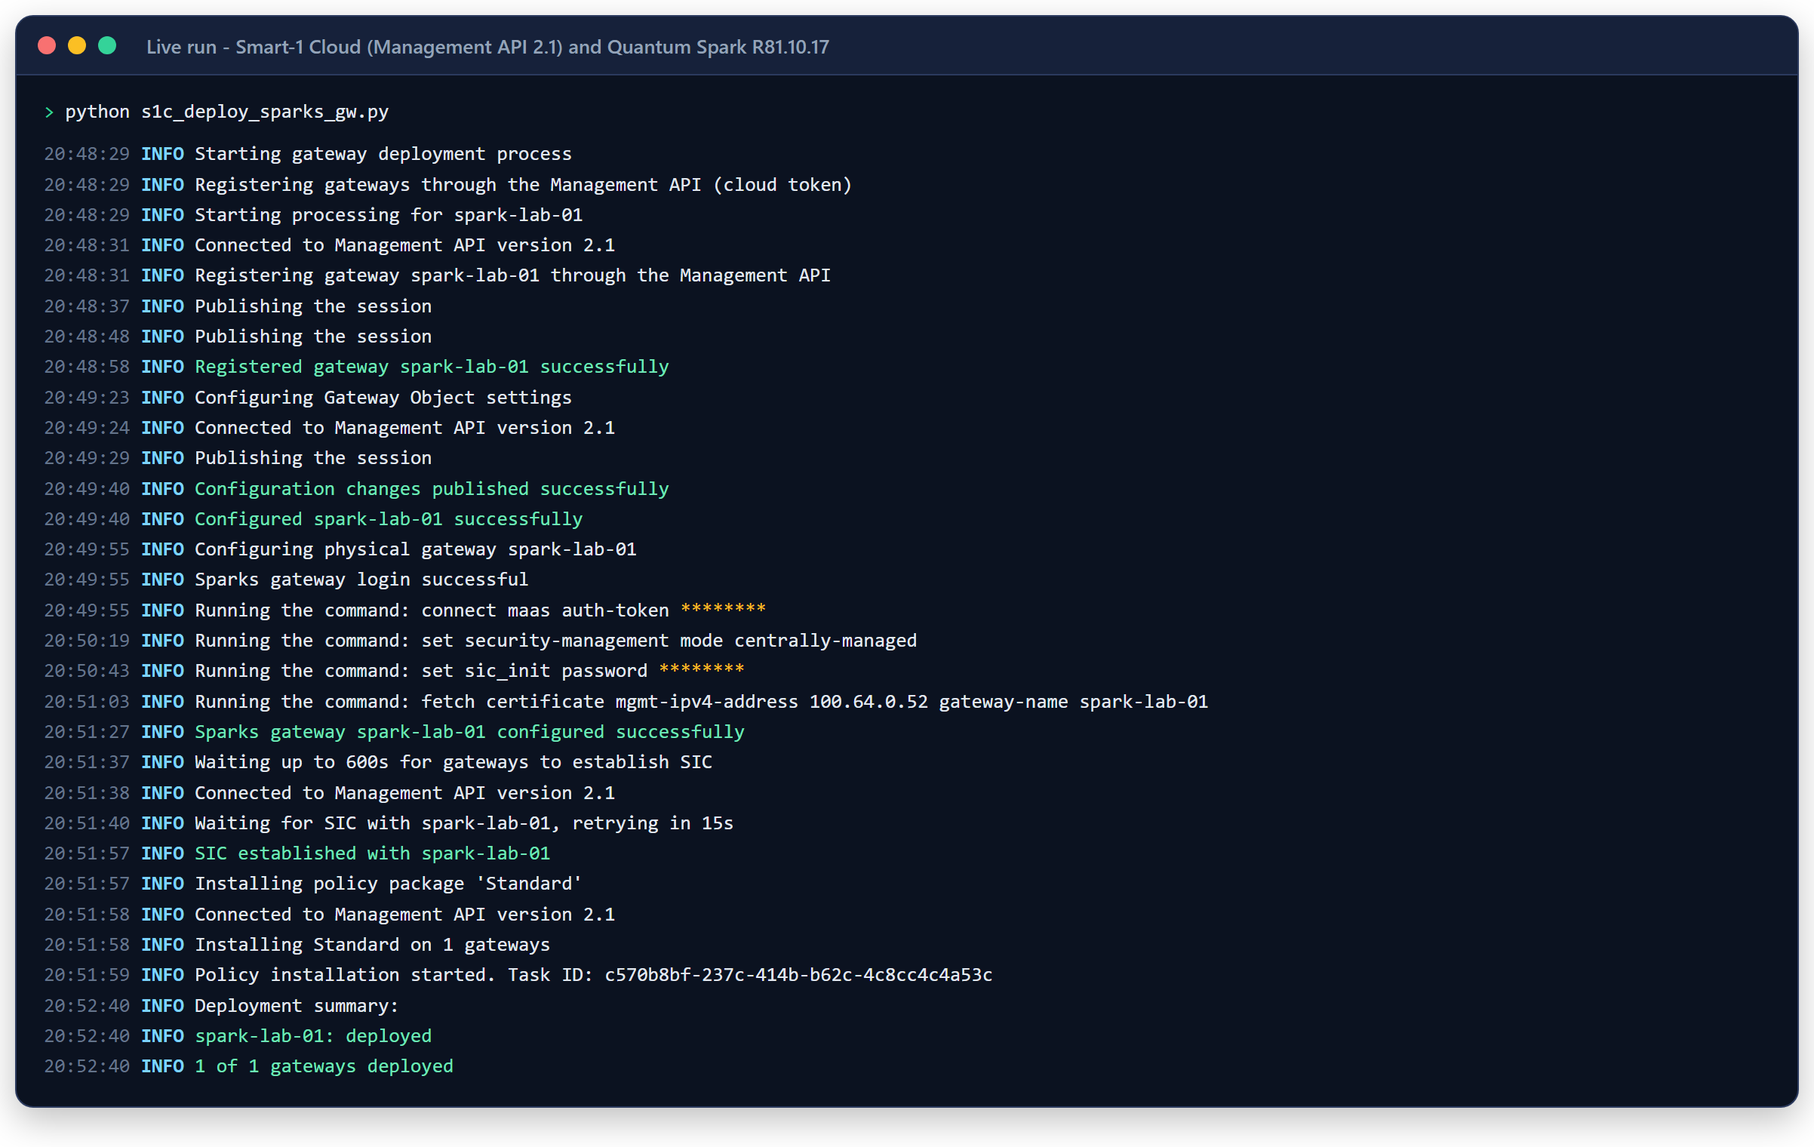
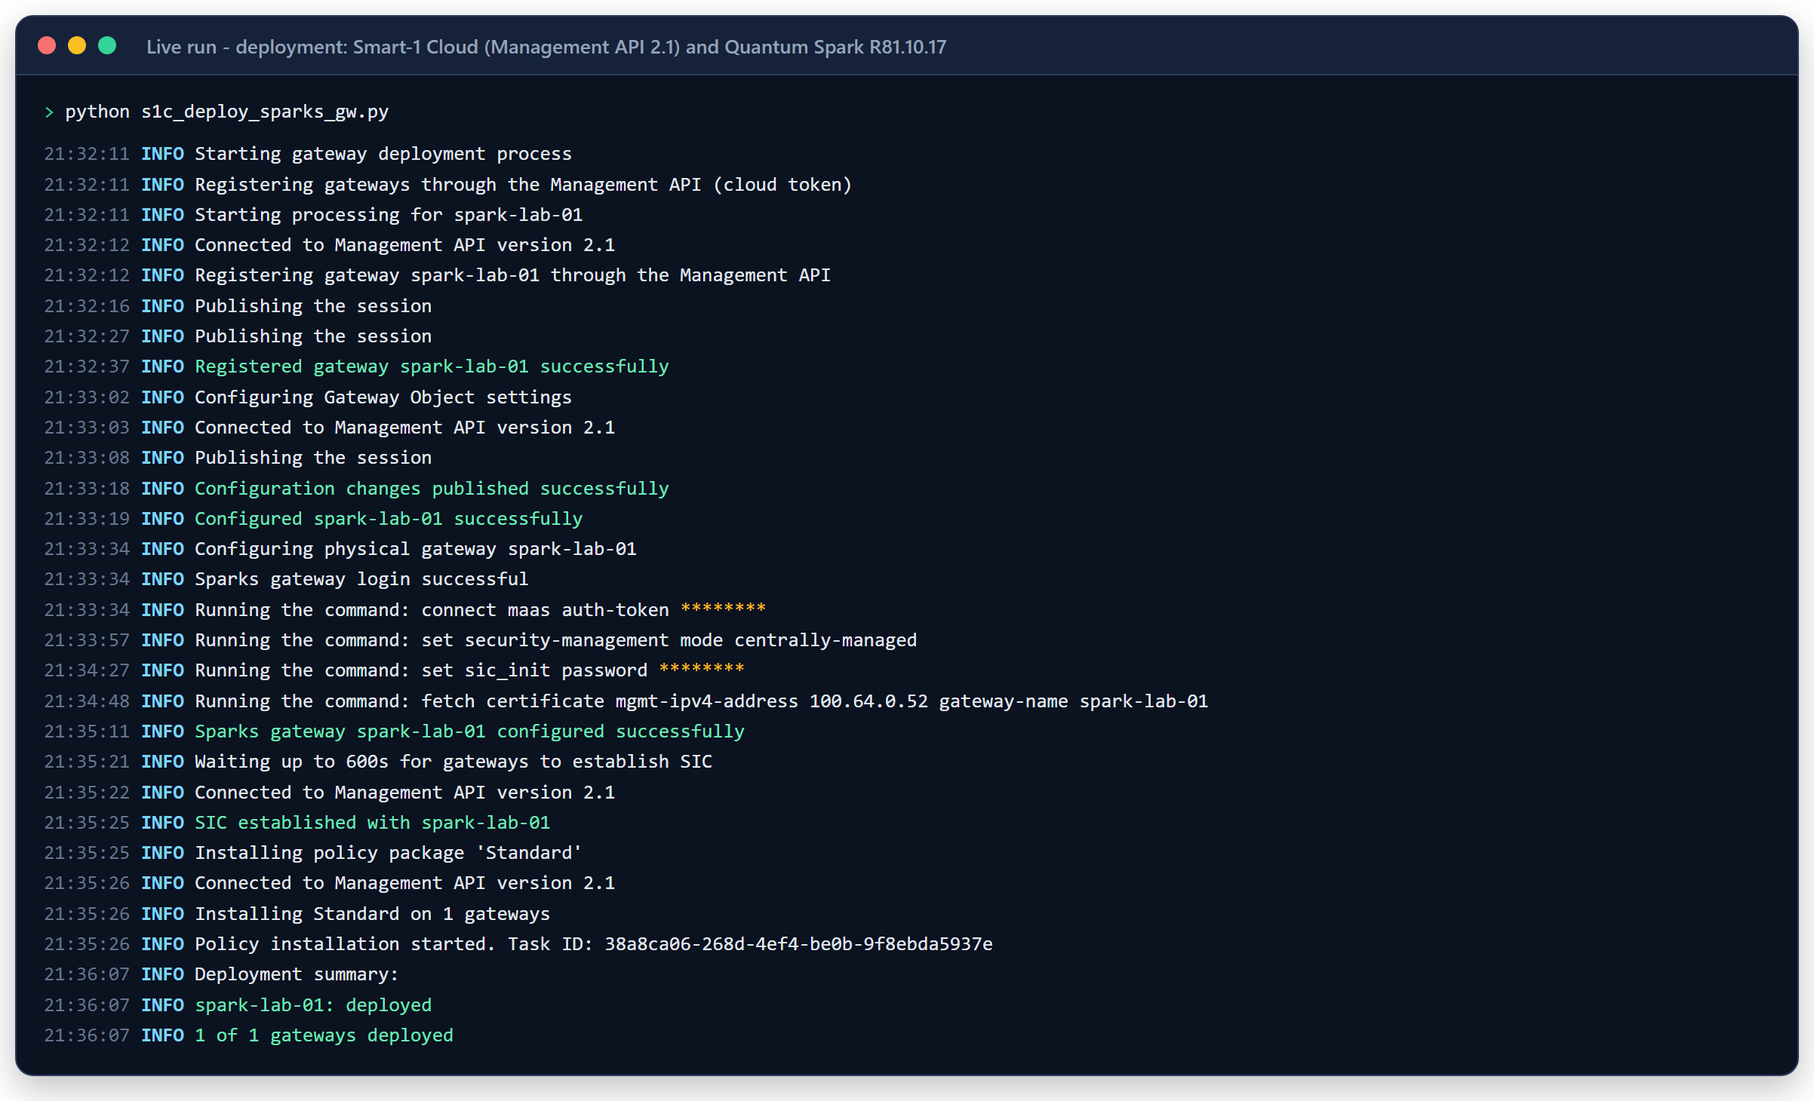
Fix Spark topology, add --delete, document live deploy and removal
Found and verified in repeated deploy/delete cycles in the lab:

- Set interfaces-topology-settings to 'global and automatic' for Spark
  gateways. Objects created as regular gateways kept 'per interface'
  topology with no interfaces, so policy installation warned about
  missing topology and the appliance dropped local WebUI/SSH access
  ("access attempt from unallowed source") after every install.
- Add --delete: return each appliance to local management (stop MaaS,
  reset SIC, then set locally-managed and verify) and delete its gateway
  object with ignore-warnings, which also removes it from groups such
  as Playblocks_Gateways.
- Add optional application_control and url_filtering per gateway, for
  groups whose rules need those blades.
- execute_clish returns the command outputs.
- README: real screenshots of a deployment and a removal run, updated
  timings and results, --delete usage, new troubleshooting rows.

Changed region(s): [[0.0, 0.0308, 0.9983, 0.9863]]

diff --git a/s1c_deploy_sparks_gw.py b/s1c_deploy_sparks_gw.py
@@ -1,11 +1,12 @@
 #!/usr/bin/env python3
 """
 Smart-1 Cloud Gateway Deployment Orchestrator
-.venv/Scripts/python.exe s1c_deploy_sparks_gw.py
+.venv/Scripts/python.exe s1c_deploy_sparks_gw.py            deploy the gateways
+.venv/Scripts/python.exe s1c_deploy_sparks_gw.py --delete   remove the gateways
 see the readme file for more details
 """
 
-import sys, time, json
+import argparse, sys, time, json
 from typing import Dict, List
 from utils.logger_main import log, redact
 from utils.load_config_file import read_config_file, AuthConfig, GatewayConfig, PolicyPackage
@@ -16,16 +17,20 @@ import urllib3
 urllib3.disable_warnings(urllib3.exceptions.InsecureRequestWarning)
 
 
-def deploy_s1c_sparks_gw() -> None:
+def deploy_s1c_sparks_gw(delete: bool = False) -> None:
     """Main deployment workflow executor"""
     try:
         # Load configurations
         auth_config: AuthConfig = read_config_file('./config/auth_data.json')
-        policy_config: PolicyPackage = read_config_file('./config/policy_package_data.json')
         config_data: List[GatewayConfig] = read_config_file('./config/config_data.json')
 
-        log.info("Starting gateway deployment process")
-        succeeded = process_gateways(auth_config, config_data, policy_config)
+        if delete:
+            log.info("Starting gateway removal process")
+            succeeded = remove_gateways(auth_config, config_data)
+        else:
+            policy_config: PolicyPackage = read_config_file('./config/policy_package_data.json')
+            log.info("Starting gateway deployment process")
+            succeeded = process_gateways(auth_config, config_data, policy_config)
 
     except Exception as e:
         log.error(f"Critical deployment error: {str(e)}")
@@ -143,6 +148,39 @@ def process_gateways(auth_config: AuthConfig, config_data: List[GatewayConfig], 
     return all(state == "deployed" for state in results.values())
 
 
+def remove_gateways(auth_config: AuthConfig, config_data: List[GatewayConfig]) -> bool:
+    """Reset each appliance to local management and delete its gateway object. Returns True on success."""
+    mgmt_api = ManagementAPI(
+        instance=auth_config.instance,
+        context=auth_config.context,
+        api_key=auth_config.api_key
+    )
+    results: Dict[str, str] = {}
+    for gateway in config_data:
+        log.info(f"Removing {gateway.gw_name}")
+        appliance_ok = True
+        if all([gateway.gateway_ip, gateway.gateway_username, gateway.gateway_password]):
+            try:
+                reset_sparks_gateway(gateway)
+            except Exception as e:
+                appliance_ok = False
+                log.error(f"Appliance reset failed for {gateway.gw_name}: "
+                          f"{redact(str(e), [gateway.gateway_password])}")
+        else:
+            log.info("No appliance credentials, skipping appliance reset")
+        try:
+            mgmt_api.delete_gateway(gateway.gw_name)
+            results[gateway.gw_name] = "removed" if appliance_ok else "deleted, failed: appliance reset"
+        except Exception as e:
+            log.error(f"Failed to delete {gateway.gw_name}: {str(e)}")
+            results[gateway.gw_name] = "failed: object deletion"
+
+    log.info("Removal summary:")
+    for gw_name, state in results.items():
+        (log.info if state == "removed" else log.error)(f"  {gw_name}: {state}")
+    return all(state == "removed" for state in results.values())
+
+
 def log_summary(results: Dict[str, str]) -> None:
     """Log the final state of each gateway"""
     log.info("Deployment summary:")
@@ -164,7 +202,9 @@ def configure_gateway(mgmt_api: ManagementAPI, gateway: GatewayConfig) -> None:
             version=gateway.version,
             net_type=gateway.net_type,
             hardware=gateway.hardware,
-            sic_key=gateway.sic_key
+            sic_key=gateway.sic_key,
+            application_control=gateway.application_control,
+            url_filtering=gateway.url_filtering
         )
         log.info(f"Configured {gateway.gw_name} successfully")
 
@@ -214,5 +254,30 @@ def configure_sparks_gateway(gateway: GatewayConfig) -> None:
         raise
 
 
+def reset_sparks_gateway(gateway: GatewayConfig) -> None:
+    """Return an appliance to local management: stop Smart-1 Cloud, reset SIC"""
+    sparks_gw = SparksGatewayAPI(
+        ip_address=gateway.gateway_ip,
+        username=gateway.gateway_username,
+        password=gateway.gateway_password
+    )
+    sparks_gw.login()
+    log.info(f"Resetting appliance {gateway.gw_name} to local management")
+    # The local management mode must be set after 'fw sic_reset', which otherwise
+    # switches the appliance back to central management (verified on R81.10.17)
+    outputs = sparks_gw.execute_clish([
+        "set maas mode stop-using",
+        "fw sic_reset",
+        "set security-management mode locally-managed",
+        "show security-management"
+    ], delay=5)
+    if "locally-managed" not in outputs[-1]:
+        raise RuntimeError(f"Appliance is not locally managed after the reset: {outputs[-1].strip()}")
+    log.info(f"Appliance {gateway.gw_name} reset to local management")
+
+
 if __name__ == '__main__':
-    deploy_s1c_sparks_gw()
+    parser = argparse.ArgumentParser(description="Deploy Quantum Spark gateways to Smart-1 Cloud")
+    parser.add_argument('--delete', action='store_true',
+                        help="Reset the appliances to local management and delete their gateway objects")
+    deploy_s1c_sparks_gw(delete=parser.parse_args().delete)

diff --git a/utils/smart1_cloud_mgmt_api.py b/utils/smart1_cloud_mgmt_api.py
@@ -187,7 +187,8 @@ class ManagementAPI:
             self._logout()
 
     def configure_gateway(self, gw_name: str, version: str, net_type: str,
-                         hardware: str, sic_key: str) -> None:
+                         hardware: str, sic_key: str,
+                         application_control: bool = False, url_filtering: bool = False) -> None:
         """Full gateway configuration workflow"""
         try:
             self._login()
@@ -229,18 +230,22 @@ class ManagementAPI:
             sic_payload = {
                 "name": gw_name,
                 "one-time-password": sic_key,
-                "sic-name": f"CN={gw_name},O={sms_cn_name}"
+                "sic-name": f"CN={gw_name},O={sms_cn_name}",
+                "application-control": application_control,
+                "url-filtering": url_filtering
             }
             if self._api_version_at_least(TRUST_SETTINGS_API_VERSION):
                 sic_payload["trust-settings"] = {"initiation-phase": "when_gateway_connects"}
+                # The object was created as a regular gateway, so it keeps 'per interface'
+                # topology with no interfaces. Spark gateways need 'global and automatic':
+                # without it, policy installation warns about missing topology and the
+                # appliance drops local WebUI/SSH access as "access attempt from unallowed
+                # source" once policy is installed (verified on R81.10.17).
+                sic_payload["interfaces-topology-settings"] = "global and automatic"
             self._execute_api_call("set-simple-gateway", sic_payload)
 
             # Publish changes
-            response = self._execute_api_call("publish", {})
-            task_id = response.get('task-id')
-            log.info("Publishing the session")
-            log.debug(f"Task ID: {task_id}")
-            self._monitor_task(task_id)
+            self._publish()
             log.info("Configuration changes published successfully")
 
             # Install policy
@@ -249,6 +254,29 @@ class ManagementAPI:
         finally:
             self._logout()
 
+
+    def delete_gateway(self, gw_name: str) -> bool:
+        """Delete a gateway object and publish. Returns False if the object does not exist."""
+        try:
+            self._login()
+            # ignore-warnings also removes the gateway from groups that reference it,
+            # for example Playblocks_Gateways ("Object ... is used by the following objects")
+            response = self.session.post(
+                f"{self.base_url}/delete-simple-gateway",
+                json={"name": gw_name, "ignore-warnings": True},
+                timeout=self.timeout
+            )
+            if response.status_code == 404:
+                log.info(f"Gateway object {gw_name} does not exist, nothing to delete")
+                return False
+            if not response.ok:
+                log.error(f"API call failed: {response.text}")
+            response.raise_for_status()
+            self._publish()
+            log.info(f"Deleted gateway object {gw_name}")
+            return True
+        finally:
+            self._logout()
 
     def wait_for_sic(self, gw_names: List[str], timeout: int) -> List[str]:
         """

diff --git a/utils/sparks_rest_api.py b/utils/sparks_rest_api.py
@@ -47,8 +47,12 @@ class SparksGatewayAPI:
 
     def execute_clish(self, commands: List[str], delay: int = 20,
                       secrets: Iterable[Optional[str]] = ()):
-        """Execute CLISH commands on sparks gateway. Values in secrets are masked in all logs."""
+        """
+        Execute CLISH commands on sparks gateway and return their outputs.
+        Values in secrets are masked in all logs.
+        """
         secrets = list(secrets)
+        outputs: List[str] = []
         try:
             for cmd in commands:
                 log.info(f"Running the command: {redact(cmd, secrets)}")
@@ -71,8 +75,10 @@ class SparksGatewayAPI:
                 if FAILURE_PATTERN.search(output):
                     raise RuntimeError(f"Command '{redact(cmd, secrets)}' failed: "
                                        f"{redact(output.strip(), secrets)}")
+                outputs.append(output)
                 log.info(f"Waiting for {delay} seconds between commands")
                 time.sleep(delay)
+            return outputs
 
         except Exception as e:
             log.error(f"CLISH command failed: {redact(str(e), secrets)}")

diff --git a/utils/load_config_file.py b/utils/load_config_file.py
@@ -26,6 +26,10 @@ class GatewayConfig(BaseModel):
     gateway_ip: Optional[str] = None
     gateway_username: Optional[str] = None
     gateway_password: Optional[str] = None
+    # Optional blades, for example when Smart-1 Cloud adds the gateway to a group whose
+    # rules require them (such as Playblocks_Gateways)
+    application_control: bool = False
+    url_filtering: bool = False
     maas_token: Optional[str] = None
     
     # v2 configuration syntax

diff --git a/README.MD b/README.MD
@@ -71,10 +71,10 @@ pauses between appliance commands are omitted.
 
 | Phase | Start | End | Duration |
 |---|---|---|---|
-| 1. Register and configure the object | 20:48:29 | 20:49:40 | 1 min 11 s |
-| 2. Configure the appliance | 20:49:55 | 20:51:27 | 1 min 32 s |
-| 3. Wait for SIC and install policy | 20:51:37 | 20:52:40 | 1 min 3 s |
-| **Total** | | | **4 min 11 s** |
+| 1. Register and configure the object | 21:32:11 | 21:33:19 | 1 min 8 s |
+| 2. Configure the appliance | 21:33:34 | 21:35:11 | 1 min 37 s |
+| 3. Wait for SIC and install policy | 21:35:21 | 21:36:07 | 46 s |
+| **Total** | | | **3 min 56 s** |
 
 <details>
 <summary><b>Configuration used for this run</b></summary>
@@ -101,10 +101,15 @@ pauses between appliance commands are omitted.
         "sic_key": "<one-time-password>",
         "gateway_ip": "<appliance-address>:4434",
         "gateway_username": "admin",
-        "gateway_password": "<appliance-password>"
+        "gateway_password": "<appliance-password>",
+        "application_control": true,
+        "url_filtering": true
     }
 ]
 ```
+
+Application Control and URL Filtering are enabled because this tenant adds new gateways to
+`Playblocks_Gateways`. See the note in [Configuration](#configuration).
 
 `config/policy_package_data.json`:
 
@@ -121,10 +126,23 @@ pauses between appliance commands are omitted.
 
 | Check | Result |
 |---|---|
-| Gateway object | `spark-lab-01`, Gaia Embedded, R81.10, 1800 Appliances, IP address generated by Smart-1 Cloud |
+| Gateway object | `spark-lab-01`, Gaia Embedded, R81.10, 1800 Appliances, topology `global and automatic`, IP address generated by Smart-1 Cloud |
 | `test-sic-status` | `SIC Status for spark-lab-01: Communicating` |
 | Access Control policy | `Standard`, installed |
-| Smart-1 Cloud Gateways & Servers view | Status OK, Access Control policy `Standard`, license OK |
+| Appliance access after policy installation | SSH and the web UI on port 4434 reachable |
+
+### Removal
+
+The same gateway removed with `--delete`, 1 min 2 s. The 5-second pauses between appliance commands
+are omitted.
+
+<p align="center">
+  <img src="docs/images/gateway-removal.png" alt="Console output of a real --delete run: appliance reset to local management, gateway object deleted, spark-lab-01 removed" width="100%">
+</p>
+
+**Result, verified after the run:** no gateway objects left in Smart-1 Cloud, `Playblocks_Gateways`
+empty, and on the appliance `show security-management` reports `locally-managed`, `show maas`
+reports `not-active`, and `fw sic_test` reports `SIC was not initialized`.
 
 ## Quick Start
 
@@ -161,6 +179,23 @@ python s1c_deploy_sparks_gw.py
 
 The run ends with a summary of each gateway. See [Live Deployment Example](#live-deployment-example)
 for the output of a real run.
+
+To remove the gateways in `config_data.json` again, run:
+
+```bash
+python s1c_deploy_sparks_gw.py --delete
+```
+
+For each gateway, `--delete`:
+
+1. Returns the appliance to local management, when its REST API credentials are configured:
+   `set maas mode stop-using`, `fw sic_reset`, `set security-management mode locally-managed`,
+   and checks the result with `show security-management`.
+2. Deletes the gateway object in Smart-1 Cloud, including its membership in groups such as
+   `Playblocks_Gateways`, and publishes.
+
+A gateway that no longer exists in Smart-1 Cloud is skipped, so `--delete` can be run again
+safely. After `--delete`, the appliance can be deployed again from scratch.
 
 ### Requirements
 
@@ -246,7 +281,8 @@ The current version was tested end to end against:
 | Smart-1 Cloud | Management API 2.1 (R82.20) |
 | Quantum Spark | VNF appliance R81.10.17, Build 521 |
 | Registration | Management API (cloud token) |
-| Result | Gateway registered, appliance connected, SIC communicating, policy installed |
+| Deployment | Gateway registered, appliance connected, SIC communicating, policy installed, appliance still reachable on SSH and its web UI |
+| Removal (`--delete`) | Appliance back to local management with SIC reset, gateway object deleted |
 
 ## Configuration
 
@@ -326,6 +362,15 @@ config/
 | `gateway_ip` | No | Address and port of the appliance local REST API, for example `203.0.113.171:4434`. |
 | `gateway_username` | No | Administrator user name on the appliance. |
 | `gateway_password` | No | Administrator password on the appliance. |
+| `application_control` | No | Enable the Application Control blade. Default `false`. |
+| `url_filtering` | No | Enable the URL Filtering blade. Default `false`. |
+
+> [!NOTE]
+> In tenants that use Playblocks, Smart-1 Cloud adds new gateways to the `Playblocks_Gateways`
+> group shortly after they are deployed. The Quarantine Policy rules for that group require
+> Application Control and URL Filtering. Set both to `true` for those gateways, otherwise later
+> policy installations fail with *"Rule 2 contains applications ... that require the 'Application
+> Control' or the 'URL Filtering' blades"*.
 
 To have the deployer configure the appliance in phase 2, provide all three of `gateway_ip`,
 `gateway_username` and `gateway_password`. Omit them for appliances onboarded with Zero Touch.
@@ -378,9 +423,11 @@ console and in the log file.
 | `SIC not established with ... skipping policy installation` | The appliance did not connect to Smart-1 Cloud within `sic_timeout` | Check the appliance connectivity and the phase 2 log entries. For Zero Touch appliances, increase `sic_timeout`, or install policy from SmartConsole once the gateway connects. |
 | `Config file ... not found` | The configuration file has not been created | Copy the matching `.example.json` template in `config/` and fill in your values. |
 | `REST API on this appliance is off` | The appliance local REST API is disabled (default) | On the appliance, run `set rest-api mode on` in Gaia Clish. |
-| `Command '...' failed: ...` in phase 2 | The appliance rejected a Clish command. The message contains the appliance output. | For `A trusted communication certificate already exists` or `You must reinitialize trusted communications`, the appliance has SIC from an earlier connection. Run `fw sic_reset` on the appliance, delete the gateway object in Smart-1 Cloud, and run the deployer again. |
-| `Security Gateway and Security Management policy versions are incompatible` | The policy was unloaded or changed locally on the appliance after an installation, so the accelerated policy installation no longer matches | Reset the appliance as described in the row above and run the deployer again, or disable Accelerated Install Policy for the gateway in SmartConsole (sk168055). |
-| Access to the appliance is lost after policy installation | The installed policy drops management traffic | Unload the policy from the appliance console, allow management access in the policy, publish, and redeploy. |
+| `Command '...' failed: ...` in phase 2 | The appliance rejected a Clish command. The message contains the appliance output. | For `A trusted communication certificate already exists` or `You must reinitialize trusted communications`, the appliance has SIC from an earlier connection. Run `python s1c_deploy_sparks_gw.py --delete`, then deploy again. |
+| `Security Gateway and Security Management policy versions are incompatible` | The policy was unloaded or changed locally on the appliance after an installation, so the accelerated policy installation no longer matches | Run `--delete` and deploy again, or disable Accelerated Install Policy for the gateway in SmartConsole (sk168055). |
+| Access to the appliance is lost after policy installation, and the logs show `WebUI/SSH access attempt from unallowed source` | Earlier versions of the deployer left the gateway object with `per interface` topology and no interfaces | Update to the current version, which sets `global and automatic` topology for Spark gateways. For an existing gateway, set the topology to `global and automatic` in SmartConsole and install policy. |
+| Access to the appliance is lost after policy installation, and the logs show a policy rule | The installed policy drops management traffic | Unload the policy from the appliance console, allow management access in the policy, publish, and redeploy. |
+| Policy installation fails with `... require the 'Application Control' or the 'URL Filtering' blades` | The gateway was added to a group whose rules need those blades, such as `Playblocks_Gateways` | Set `application_control` and `url_filtering` to `true` for the gateway and redeploy, or enable the blades in SmartConsole. |
 | `Gateway object ... not created yet` repeats and then fails | Smart-1 Cloud did not create the gateway object within 3 minutes | Confirm that the gateway is listed in the Smart-1 Cloud application in the Infinity Portal, then run the deployer again. |
 | `Management server upgrade in progress` warning | Smart-1 Cloud is running a background upgrade | Wait for the upgrade to complete, then run the deployment. |
 | The gateway is rejected or is not listed | Firmware earlier than R81.10.X, or a Rugged 1200R appliance | See [Version Compatibility](#version-compatibility). |
@@ -408,6 +455,18 @@ For full details of a run, see `logs/s1c_deploy_sparks_gw.log`.
 | R82.20 Release Notes | [PDF](https://sc1.checkpoint.com/documents/R82.20/WebAdminGuides/EN/CP_R82.20_RN/CP_R82.20_ReleaseNotes.pdf) |
 
 ## Changelog
+
+### November 2026: Spark topology fix and `--delete`
+
+Verified with repeated deploy and delete cycles against the lab.
+
+- Spark gateway objects get `interfaces-topology-settings: global and automatic`. Before, they kept
+  `per interface` topology with no interfaces. Policy installation then warned about missing
+  topology, and the appliance dropped local WebUI and SSH access ("access attempt from unallowed
+  source") after every policy installation.
+- New `--delete` mode: returns each appliance to local management and deletes its gateway object.
+- New optional `application_control` and `url_filtering` settings for each gateway, for groups
+  such as `Playblocks_Gateways` whose rules need those blades.
 
 ### November 2026: Lab-verified, registration without Infinity Portal keys
 
